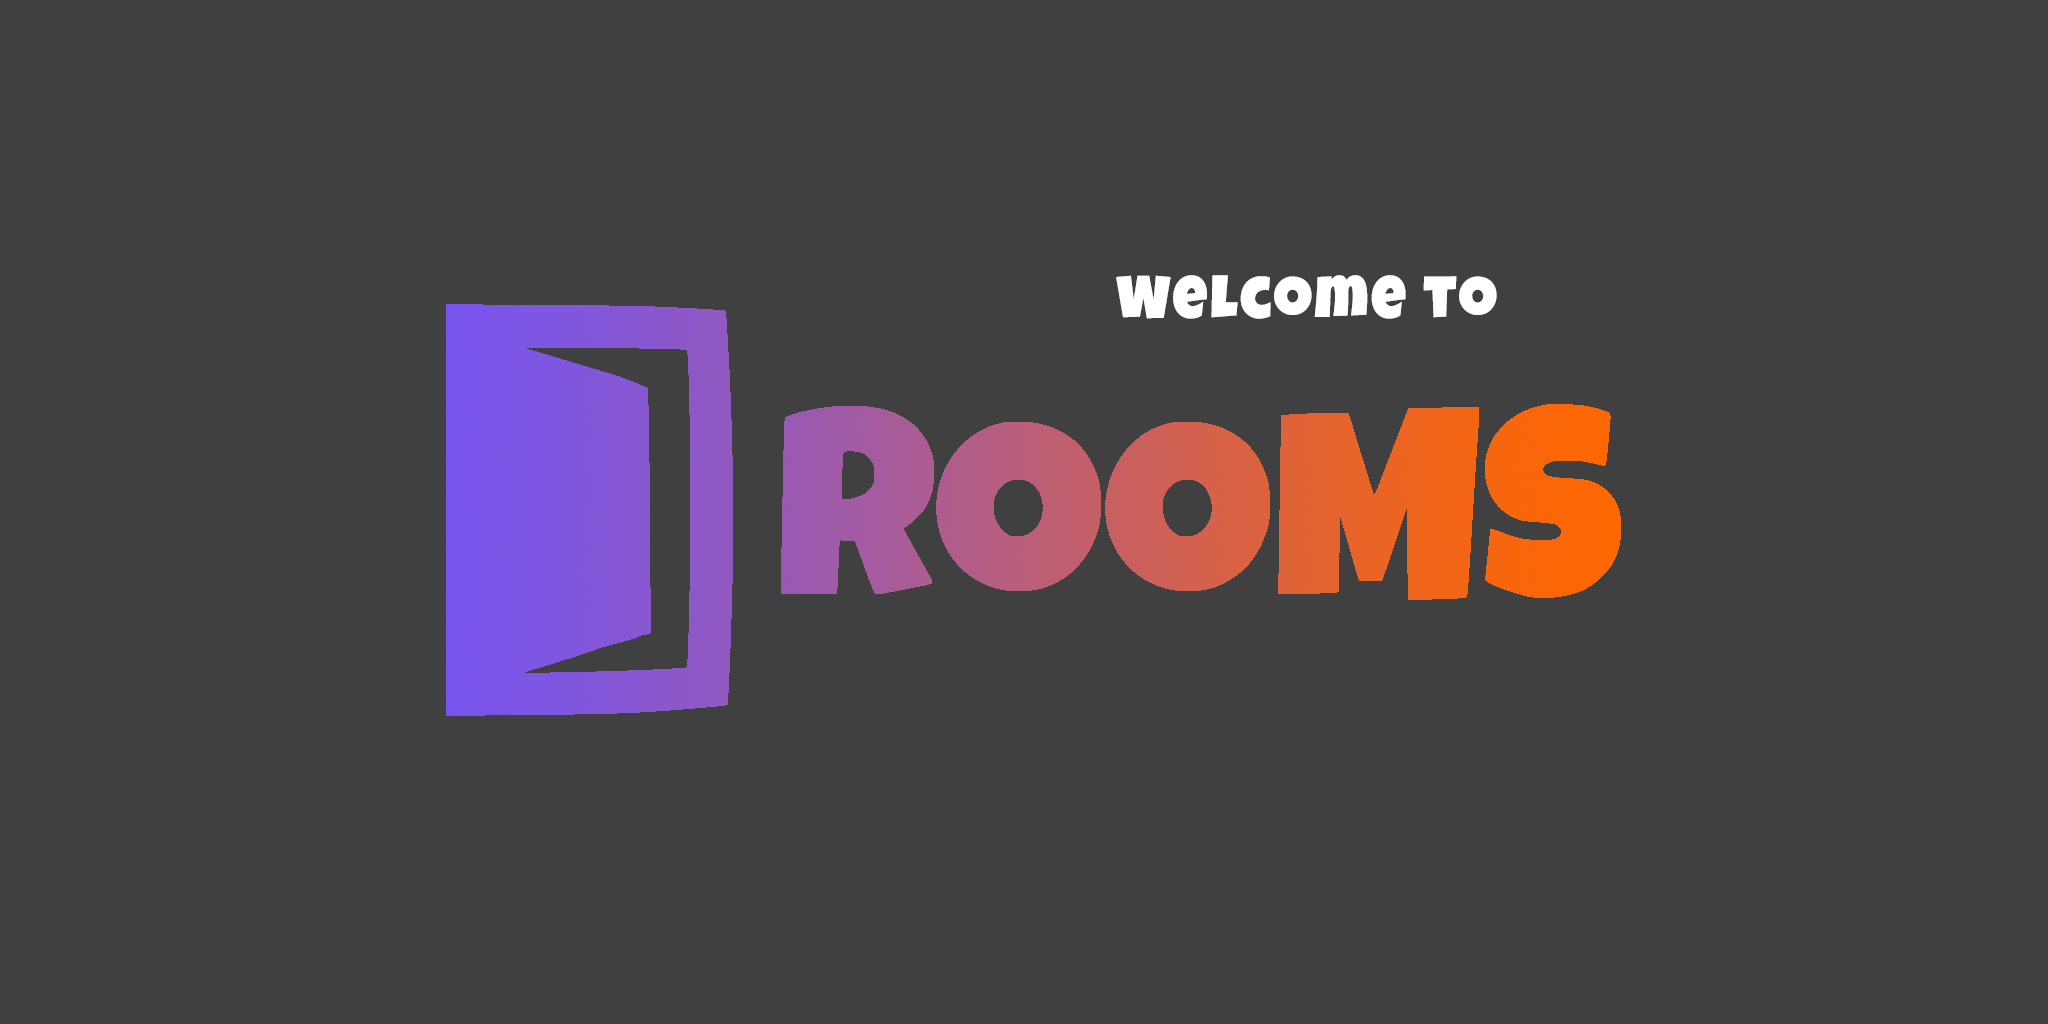
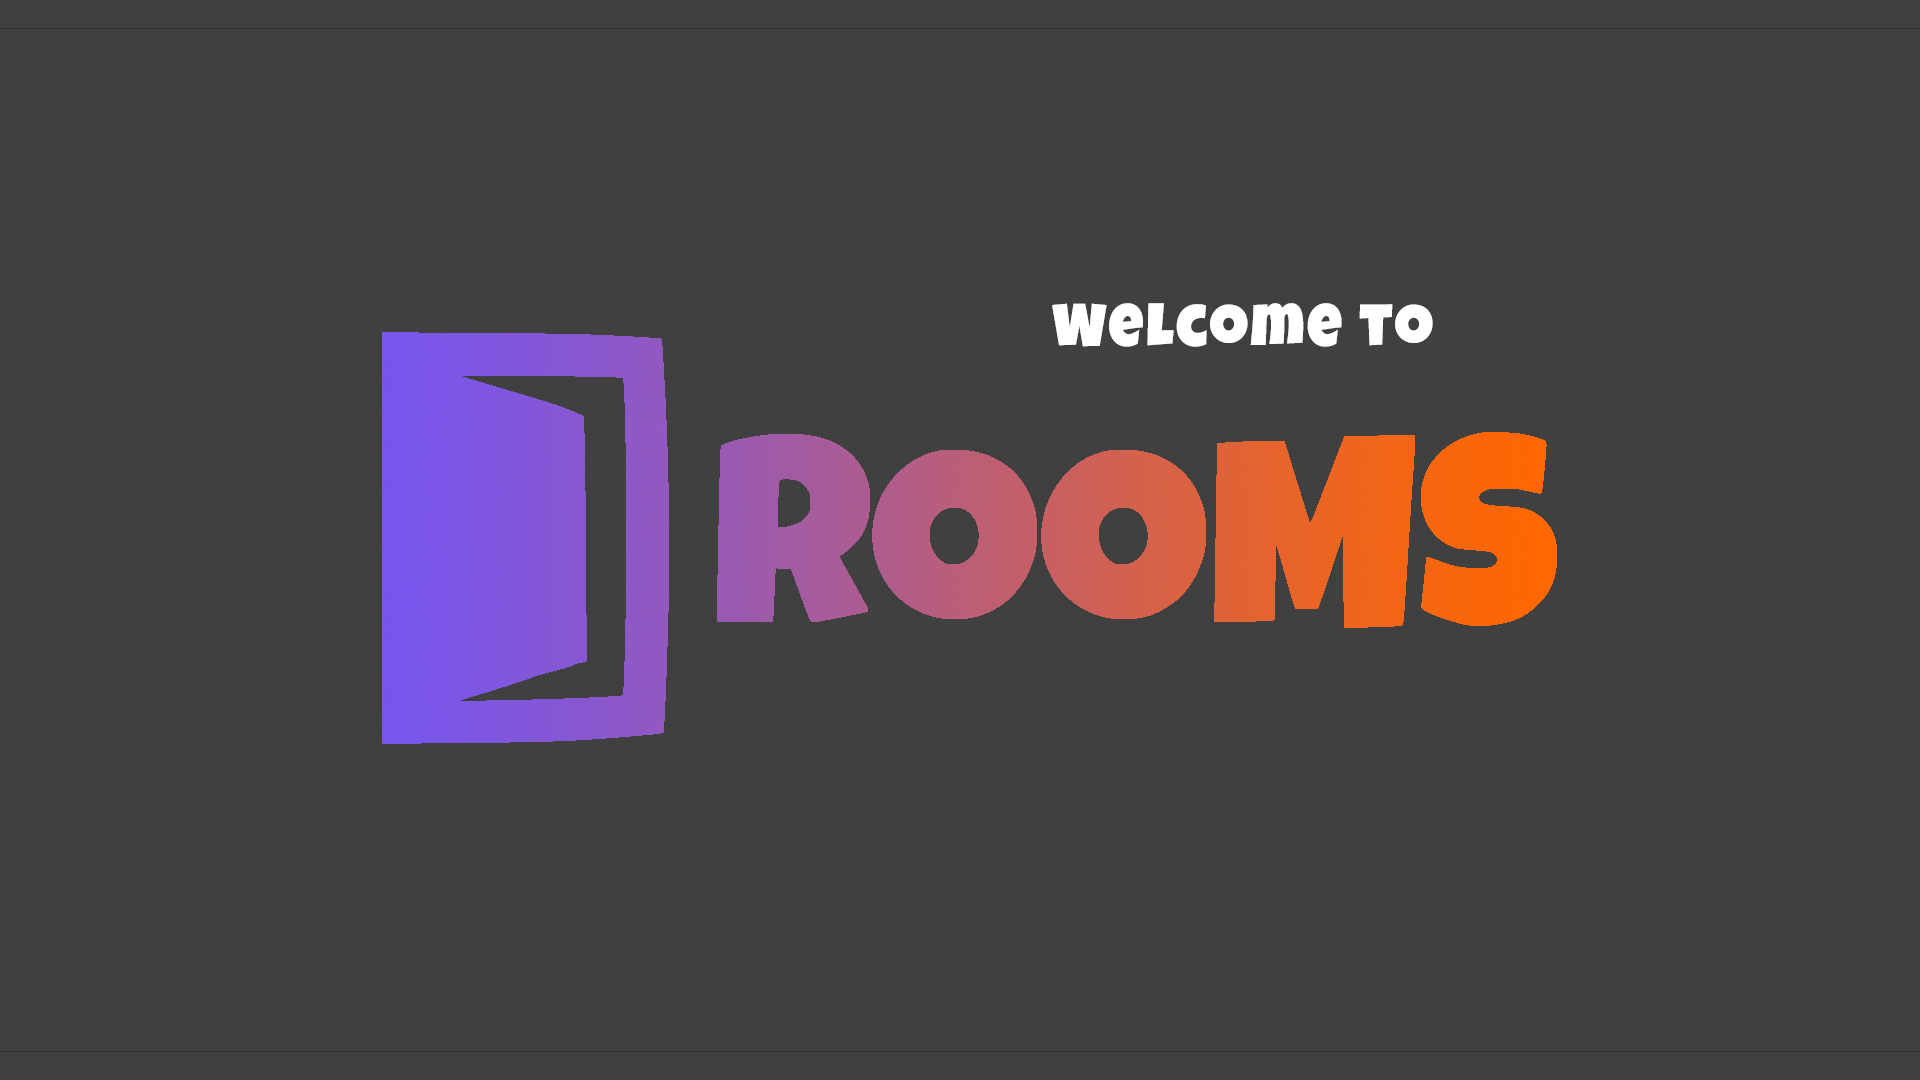
wip curved buttons for tutorial screens

diff --git a/src/tools/scene/scene_editor.cpp b/src/tools/scene/scene_editor.cpp
@@ -15,7 +15,7 @@
 #include "graphics/renderer_storage.h"
 
 #include "shaders/mesh_color.wgsl.gen.h"
-#include "shaders/curved_quad_texture.wgsl.gen.h"
+#include "shaders/ui/ui_xr_panel.wgsl.gen.h"
 
 #include "engine/rooms_engine.h"
 #include "engine/scene.h"
@@ -43,28 +43,7 @@ void SceneEditor::initialize()
     RoomsRenderer* rooms_renderer = dynamic_cast<RoomsRenderer*>(Renderer::instance);
     rooms_renderer->get_raymarching_renderer()->set_current_sculpt(default_sculpt);
 
-    // Create curved quad for VR mode
-    {
-        curved_quad = new MeshInstance3D();
-        Surface* quad = new Surface();
-        quad->create_subvidided_quad(2.0f, 1.0f, subdivisions);
-        curved_quad->add_surface(quad);
-
-        Material curved_mesh_material;
-        curved_mesh_material.cull_type = CULL_NONE;
-        curved_mesh_material.transparency_type = ALPHA_BLEND;
-        curved_mesh_material.diffuse_texture = RendererStorage::get_texture("data/images/welcome_screen.png", true);
-        curved_mesh_material.shader = RendererStorage::get_shader_from_source(shaders::curved_quad_texture::source, shaders::curved_quad_texture::path, curved_mesh_material);
-        curved_quad->set_surface_material_override(curved_quad->get_surface(0), curved_mesh_material);
-
-        curved_quad->translate({ 0.0f, 0.5f, -1.0f });
-
-        main_scene->add_node(curved_quad);
-    }
-
-    // 
-
-    intersection_mesh = new MeshInstance3D();
+    /*intersection_mesh = new MeshInstance3D();
     intersection_mesh->add_surface(RendererStorage::get_surface("box"));
     intersection_mesh->scale(glm::vec3(0.01f));
 
@@ -73,7 +52,7 @@ void SceneEditor::initialize()
     intersection_mesh_material.shader = RendererStorage::get_shader_from_source(shaders::mesh_color::source, shaders::mesh_color::path, intersection_mesh_material);
     intersection_mesh->set_surface_material_override(intersection_mesh->get_surface(0), intersection_mesh_material);
 
-    main_scene->add_node(intersection_mesh);
+    main_scene->add_node(intersection_mesh);*/
 }
 
 void SceneEditor::clean()
@@ -98,67 +77,72 @@ void SceneEditor::update(float delta_time)
 
     update_gizmo(delta_time);
 
-    // Update welcome screen following headset??
-    {
-        glm::mat4x4 m(1.0f);
+    if (xr_panel_3d) {
 
+        // Update welcome screen following headset??
+
+        glm::mat4x4 m(1.0f);
         glm::vec3 eye = renderer->get_camera_eye();
-        glm::vec3 new_pos = eye + renderer->get_camera_front() * 2.0f;
+        glm::vec3 new_pos = eye + renderer->get_camera_front();
 
         m = glm::translate(m, new_pos);
         m = m * glm::toMat4(get_rotation_to_face(new_pos, eye, { 0.0f, 1.0f, 0.0f }));
+        // m = glm::translate(m, -glm::vec3(1.0f, 1.0f, 0.0f));
 
-        // curved_quad->set_model(m);
+        xr_panel_3d->set_model(m);
+        xr_panel_3d->update(delta_time);
+    }
+    else {
+        xr_panel_2d->update(delta_time);
     }
 
     // debug
 
-    glm::vec3 ray_origin;
-    glm::vec3 ray_direction;
+    //glm::vec3 ray_origin;
+    //glm::vec3 ray_direction;
 
-    if (Renderer::instance->get_openxr_available())
-    {
-        ray_origin = Input::get_controller_position(HAND_RIGHT, POSE_AIM);
-        glm::mat4x4 select_hand_pose = Input::get_controller_pose(HAND_RIGHT, POSE_AIM);
-        ray_direction = get_front(select_hand_pose);
-    }
-    else
-    {
-        Camera* camera = Renderer::instance->get_camera();
-        glm::vec3 ray_dir = camera->screen_to_ray(Input::get_mouse_position());
+    //if (Renderer::instance->get_openxr_available())
+    //{
+    //    ray_origin = Input::get_controller_position(HAND_RIGHT, POSE_AIM);
+    //    glm::mat4x4 select_hand_pose = Input::get_controller_pose(HAND_RIGHT, POSE_AIM);
+    //    ray_direction = get_front(select_hand_pose);
+    //}
+    //else
+    //{
+    //    Camera* camera = Renderer::instance->get_camera();
+    //    glm::vec3 ray_dir = camera->screen_to_ray(Input::get_mouse_position());
 
-        ray_origin = camera->get_eye();
-        ray_direction = glm::normalize(ray_dir);
-    }
+    //    ray_origin = camera->get_eye();
+    //    ray_direction = glm::normalize(ray_dir);
+    //}
 
-    // Quad
-    glm::mat4x4 model = curved_quad->get_model();
+    //// Quad
+    //glm::mat4x4 model = curved_quad->get_model();
 
-    glm::vec3 quad_position = model[3];
-    glm::quat quad_rotation = glm::quat_cast(model);
-    glm::vec2 quad_size = { 2.0f, 1.0f };
+    //glm::vec3 quad_position = model[3];
+    //glm::quat quad_rotation = glm::quat_cast(model);
+    //glm::vec2 quad_size = { 2.0f, 1.0f };
 
-    float collision_dist;
-    glm::vec3 intersection_point;
-    glm::vec3 local_intersection_point;
+    //float collision_dist;
+    //glm::vec3 intersection_point;
+    //glm::vec3 local_intersection_point;
 
-    if (intersection::ray_curved_quad(
-        ray_origin,
-        ray_direction,
-        quad_position,
-        quad_size * 0.5f,
-        quad_rotation,
-        subdivisions,
-        0.35f,
-        intersection_point,
-        local_intersection_point,
-        collision_dist,
-        true
-    )) {
-        intersection_mesh->set_translation(intersection_point);
-        intersection_mesh->scale(glm::vec3(0.01f));
-    }
-
+    //if (intersection::ray_curved_quad(
+    //    ray_origin,
+    //    ray_direction,
+    //    quad_position,
+    //    quad_size * 0.5f,
+    //    quad_rotation,
+    //    subdivisions,
+    //    0.25f,
+    //    intersection_point,
+    //    local_intersection_point,
+    //    collision_dist,
+    //    true
+    //)) {
+    //    intersection_mesh->set_translation(intersection_point);
+    //    intersection_mesh->scale(glm::vec3(0.01f));
+    //}
 }
 
 void SceneEditor::render()
@@ -167,7 +151,14 @@ void SceneEditor::render()
 
     RoomsEngine::render_controllers();
 
-    render_gizmo(); 
+    render_gizmo();
+
+    if (xr_panel_3d) {
+        xr_panel_3d->render();
+    }
+    else {
+        xr_panel_2d->render();
+    }
 }
 
 void SceneEditor::render_gui()
@@ -252,6 +243,42 @@ void SceneEditor::init_ui()
     if (renderer->get_openxr_available()) {
         main_panel_3d = new Viewport3D(main_panel_2d);
         main_panel_3d->set_active(true);
+    }
+
+    // Create tutorial/welcome panel
+    {
+        xr_panel_2d = new Node2D("tutorial_scene_root", { 0.0f, 0.0f }, { 1.0f, 1.0f });
+
+        auto webgpu_context = Renderer::instance->get_webgpu_context();
+        glm::vec2 size = glm::vec2(static_cast<float>(webgpu_context->render_width), static_cast<float>(webgpu_context->render_height)) * 0.5f;
+        glm::vec2 pos = size * 0.5f;
+
+        if (renderer->get_openxr_available()) {
+            size = glm::vec2(1920.f, 1080.0f);
+            pos = -size * 0.5f;
+        }
+
+        ui::XRPanel* xr_panel = new ui::XRPanel("scene_editor_root", "data/images/welcome_screen.png", pos, size);
+        xr_panel_2d->add_child(xr_panel);
+
+        /*ui::HContainer2D* first_xr_panel_row = new ui::HContainer2D("first_xr_panel_row", { 0.0f, 0.0f });
+        xr_panel->add_child(first_xr_panel_row);
+
+        first_xr_panel_row->add_child(new ui::TextureButton2D("test_0", "data/textures/import.png"));
+        first_xr_panel_row->add_child(new ui::TextureButton2D("test_1", "data/textures/export.png"));*/
+
+        const glm::vec2& button_size = { size.x * 0.5f, size.y * 0.5 };
+
+        //xr_panel->add_button({ button_size.x * 0.5f, size.y - button_size.y * 0.5f }, button_size);
+        xr_panel->add_button({ size.x * 0.5f, size.y - button_size.y * 0.5f }, button_size);
+
+        xr_panel->add_button({ button_size.x * 0.5f, button_size.y * 0.5f }, button_size);
+        xr_panel->add_button({ size.x - button_size.x * 0.5f, button_size.y * 0.5f }, button_size);
+
+        if (renderer->get_openxr_available()) {
+            xr_panel_3d = new Viewport3D(xr_panel_2d);
+            xr_panel_3d->set_active(true);
+        }
     }
 
     // Load controller UI labels

diff --git a/src/engine/rooms_engine.cpp b/src/engine/rooms_engine.cpp
@@ -55,7 +55,7 @@ int RoomsEngine::initialize(Renderer* renderer, GLFWwindow* window, bool use_glf
     }
 
     // Set default editor..
-    current_editor = sculpt_editor;
+    current_editor = scene_editor;
 
     // Grid
     {
@@ -124,6 +124,7 @@ void RoomsEngine::update(float delta_time)
     {
         const glm::mat4x4& raycast_transform = Input::get_controller_pose(HAND_RIGHT, POSE_AIM);
         raycast_pointer->set_model(raycast_transform);
+        raycast_pointer->scale(glm::vec3(1.0f, 1.0f, 10.0f));
     }
 
     main_scene->update(delta_time);

diff --git a/src/tools/base_editor.h b/src/tools/base_editor.h
@@ -20,6 +20,10 @@ protected:
     ui::HContainer2D* main_panel_2d = nullptr;
     Viewport3D* main_panel_3d = nullptr;
 
+    // Tutorial
+    Node2D* xr_panel_2d = nullptr;
+    Viewport3D* xr_panel_3d = nullptr;
+
 public:
 
     BaseEditor() {};

diff --git a/src/graphics/renderers/rooms_renderer.h b/src/graphics/renderers/rooms_renderer.h
@@ -12,7 +12,7 @@
 #include "framework/camera/flyover_camera.h"
 #include "framework/camera/orbit_camera.h"
 
-// #define DISABLE_RAYMARCHER
+#define DISABLE_RAYMARCHER
 
 class RoomsRenderer : public Renderer {
 
